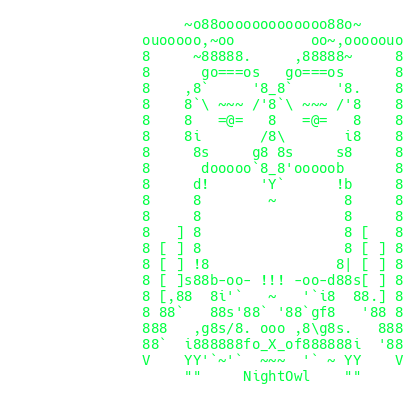
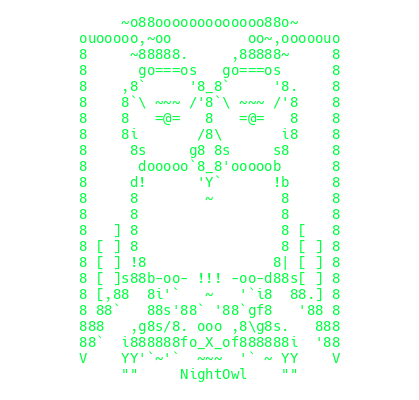
docs: update centered owl graphic and add community section to README

Changed region(s): [[0.1862, 0.03, 0.9618, 0.96]]

diff --git a/README.md b/README.md
@@ -272,7 +272,7 @@ NightOwl thrives on community contributions. Ways to help:
 4. **Documentation** — Improve the wiki
 5. **Translations** — Internationalize the UI
 
-See [CONTRIBUTING.md](CONTRIBUTING.md) for guidelines.
+See [CONTRIBUTING.md](CONTRIBUTING.md) for guidelines. Please also review our [Code of Conduct](CODE_OF_CONDUCT.md) and [Security Policy](SECURITY.md).
 
 ---
 
@@ -316,6 +316,17 @@ NightOwl is a dual-use tool. Operators are responsible for:
 [![security-research](https://img.shields.io/badge/security--research-00ff41?style=flat-square)](https://github.com/topics/security-research)
 [![footprinting](https://img.shields.io/badge/footprinting-00f3ff?style=flat-square)](https://github.com/topics/footprinting)
 [![automation](https://img.shields.io/badge/automation-b026ff?style=flat-square)](https://github.com/topics/automation)
+
+---
+
+## 🤝 Community
+
+| Document | Description |
+|----------|-------------|
+| [Code of Conduct](CODE_OF_CONDUCT.md) | Community standards and expectations |
+| [Contributing Guidelines](CONTRIBUTING.md) | How to contribute to NightOwl |
+| [Security Policy](SECURITY.md) | Reporting vulnerabilities responsibly |
+| [License](LICENSE) | MIT License terms |
 
 ---
 